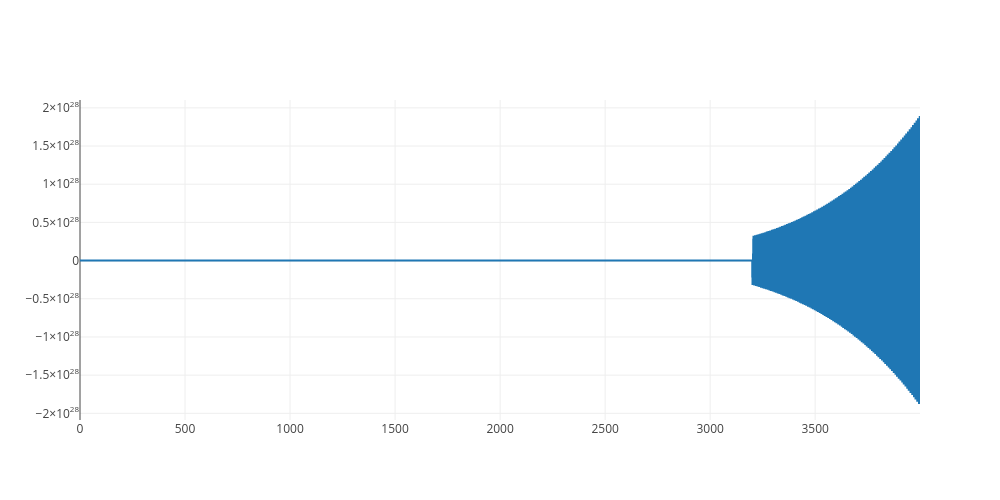
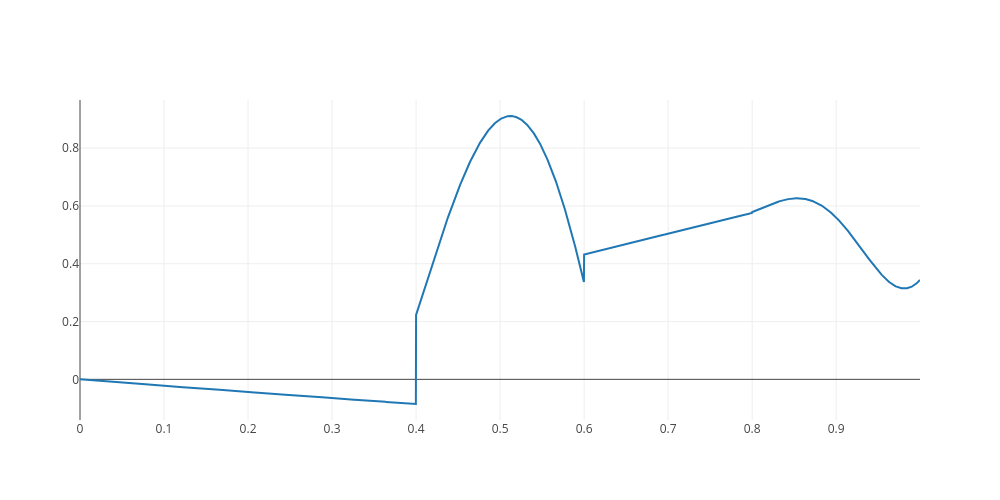
adding t param

diff --git a/zad2.js b/zad2.js
@@ -18,16 +18,21 @@ class Zad2 extends Base {
     };
     this.figure1 = { data: [this.trace1] };
     this.figure2 = { data: [this.trace2] };
+    this.x = this.x.bind(this);
+    this.y = this.y.bind(this);
+    this.v = this.v.bind(this);
   }
   y(n) {
     const { fs } = this;
     return Math.sin(8 * Math.PI * (n / fs) * Math.cos(10 * n));
   }
   z(n) {
-    return this.y(n) - 3000 * Math.abs(this.x(n));
+    const { y, x } = this;
+    return y(n) - 3000 * Math.abs(x(n));
   }
   v(n) {
-    return this.x(n) * (Math.abs(this.y(n)) + 2.6) * (this.x(n) - this.y(n));
+    const { x, y } = this;
+    return x(n) * (Math.abs(y(n)) + 2.6) * (x(n) - y(n));
   }
   countZ() {
     const { zIndex, zData } = this;
@@ -47,6 +52,7 @@ class Zad2 extends Base {
     const { figure1, figure2, imgOpts, zData, vData } = this;
     this.countZ();
     this.countV();
+    console.log(this.v(4));
     this.printPNG(figure1, imgOpts, 'charts/zad2-a.png');
     this.printPNG(figure2, imgOpts, 'charts/zad2-b.png');
     this.printData('data/zad2-a.txt', zData);

diff --git a/zad3.js b/zad3.js
@@ -30,17 +30,18 @@ class Zad3 extends Base {
   }
   count() {
     const { data, index, first, second, third, fourth } = this;
-    const [step1, step2, step3] = [0.4 * 4000, 0.6 * 4000, 0.8 * 4000];
+    const [step1, step2, step3] = [0.4, 0.6, 0.8];
     for (let i = 0; i < 4000; i++) {
-      index.push(i);
-      if (i < step1) {
-        data.push(first(i));
-      } else if (i >= step1 && i < step2) {
-        data.push(second(i));
-      } else if (i >= step2 && i < step3) {
-        data.push(third(i));
+      let t = i / 4000;
+      index.push(i / 4000);
+      if (t < step1) {
+        data.push(first(t));
+      } else if (t >= step1 && t < step2) {
+        data.push(second(t));
+      } else if (t >= step2 && t < step3) {
+        data.push(third(t));
       } else {
-        data.push(fourth(i));
+        data.push(fourth(t));
       }
     }
   }
